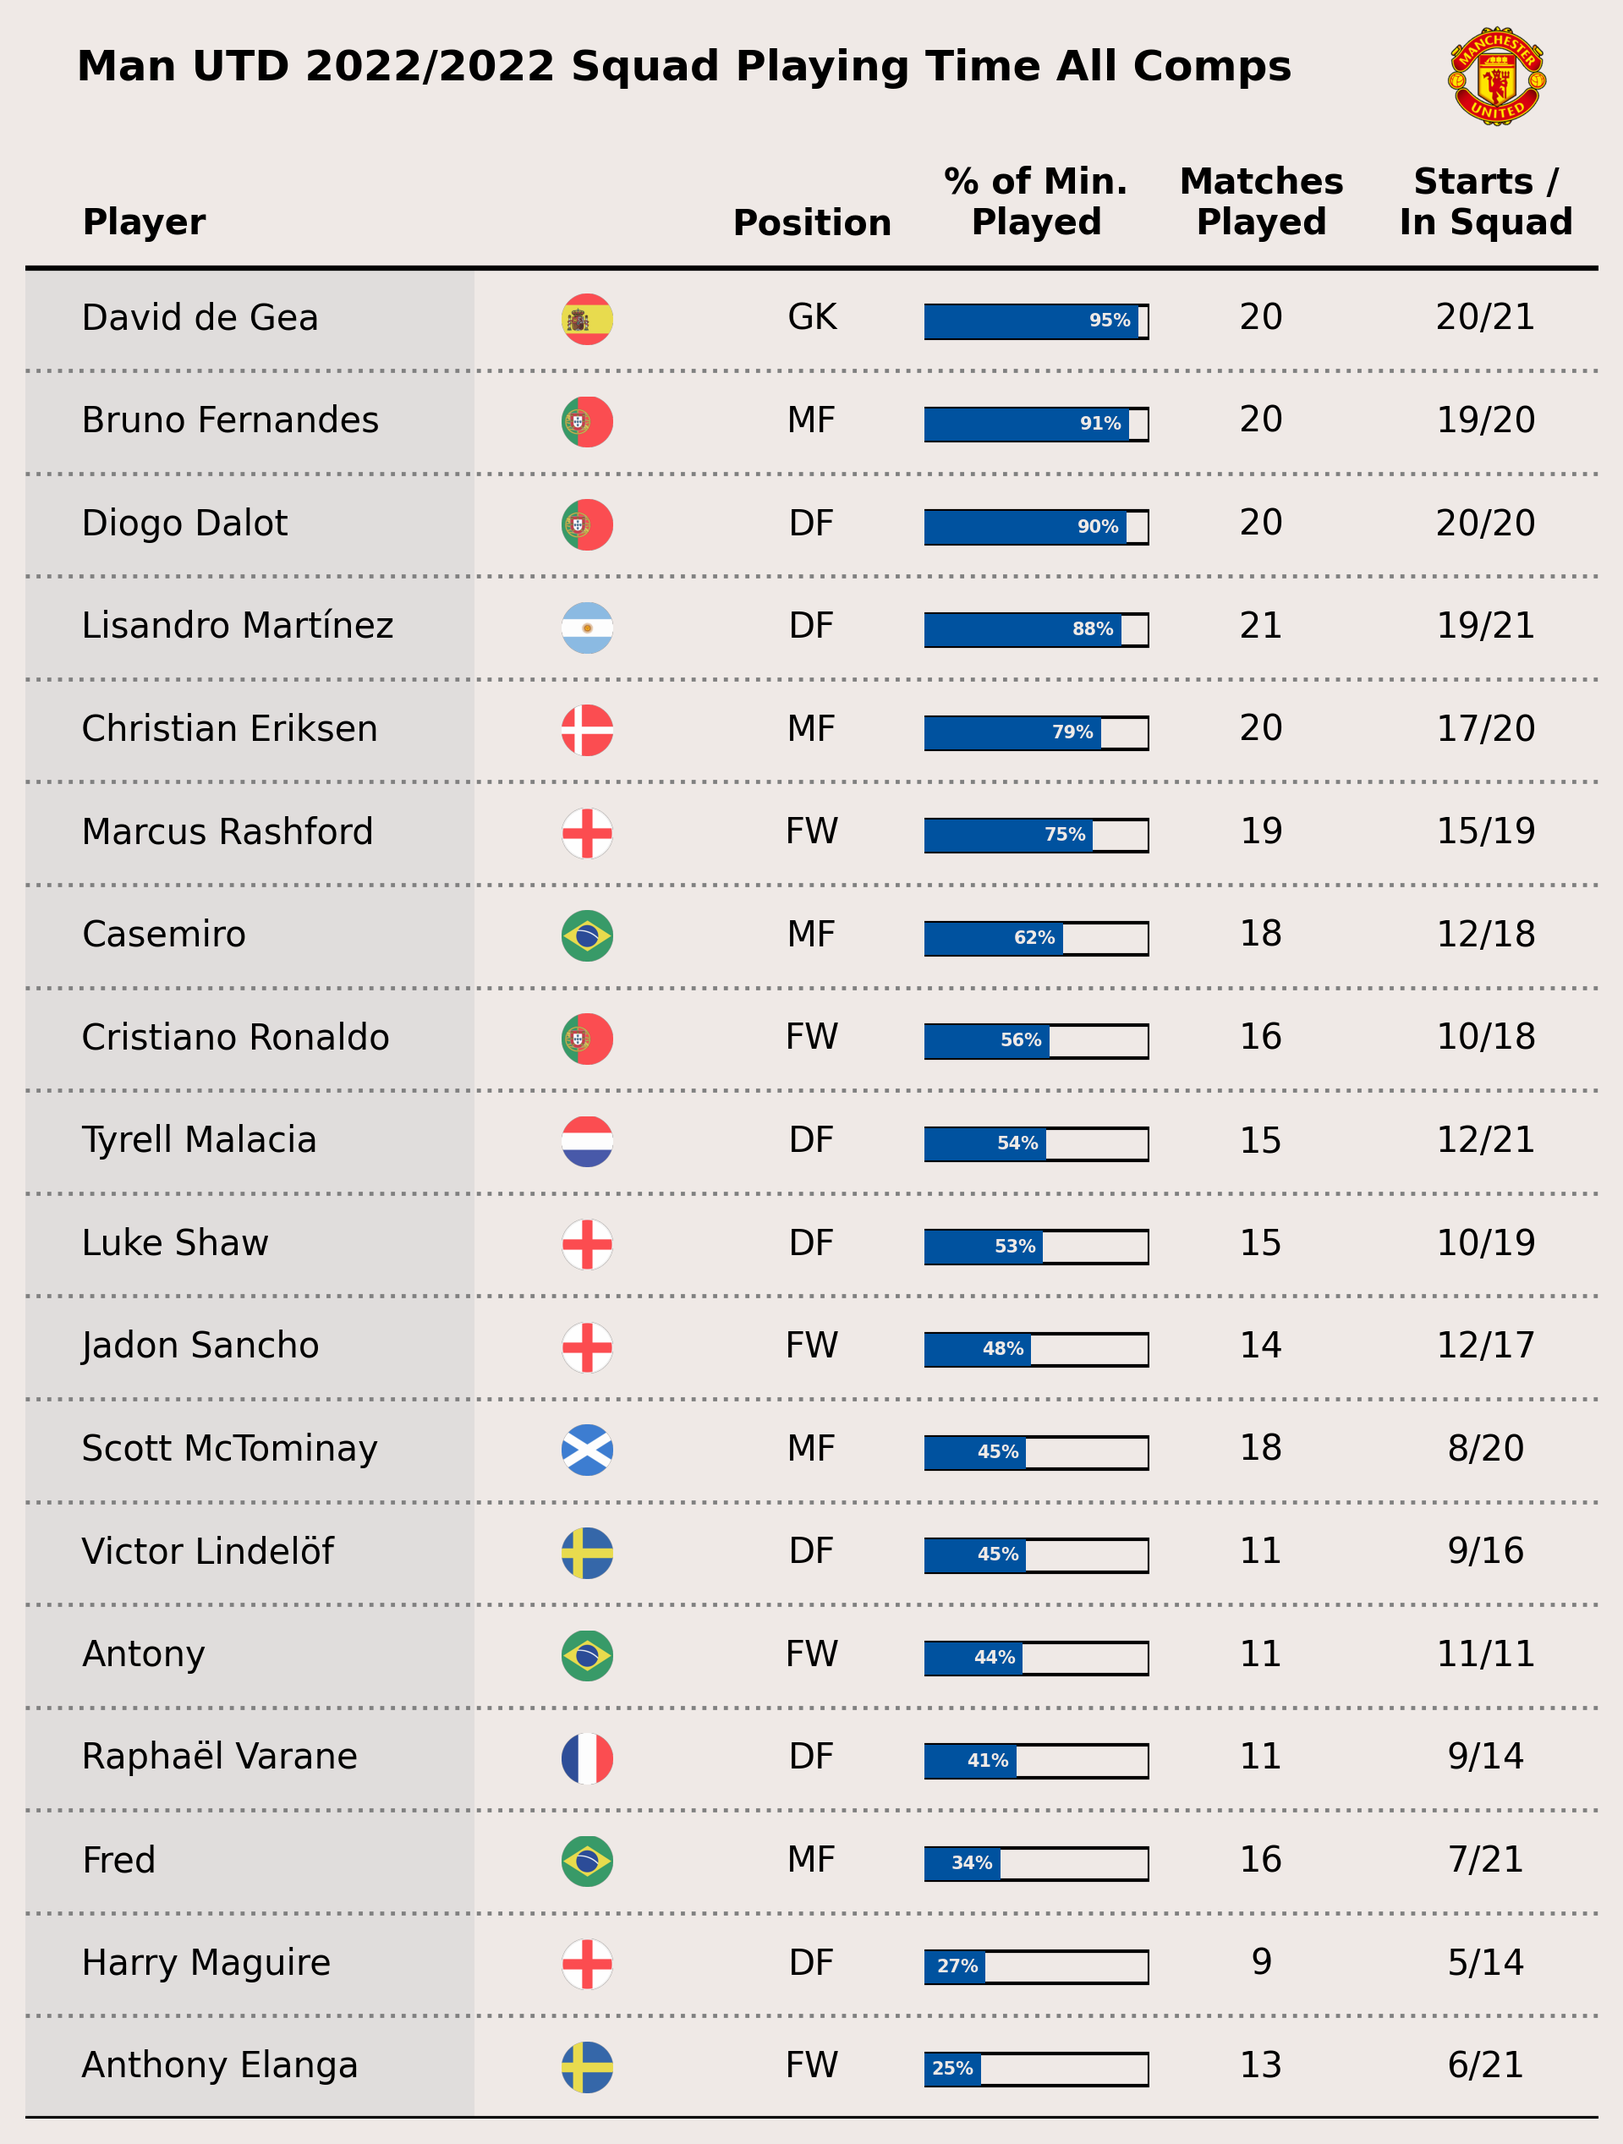
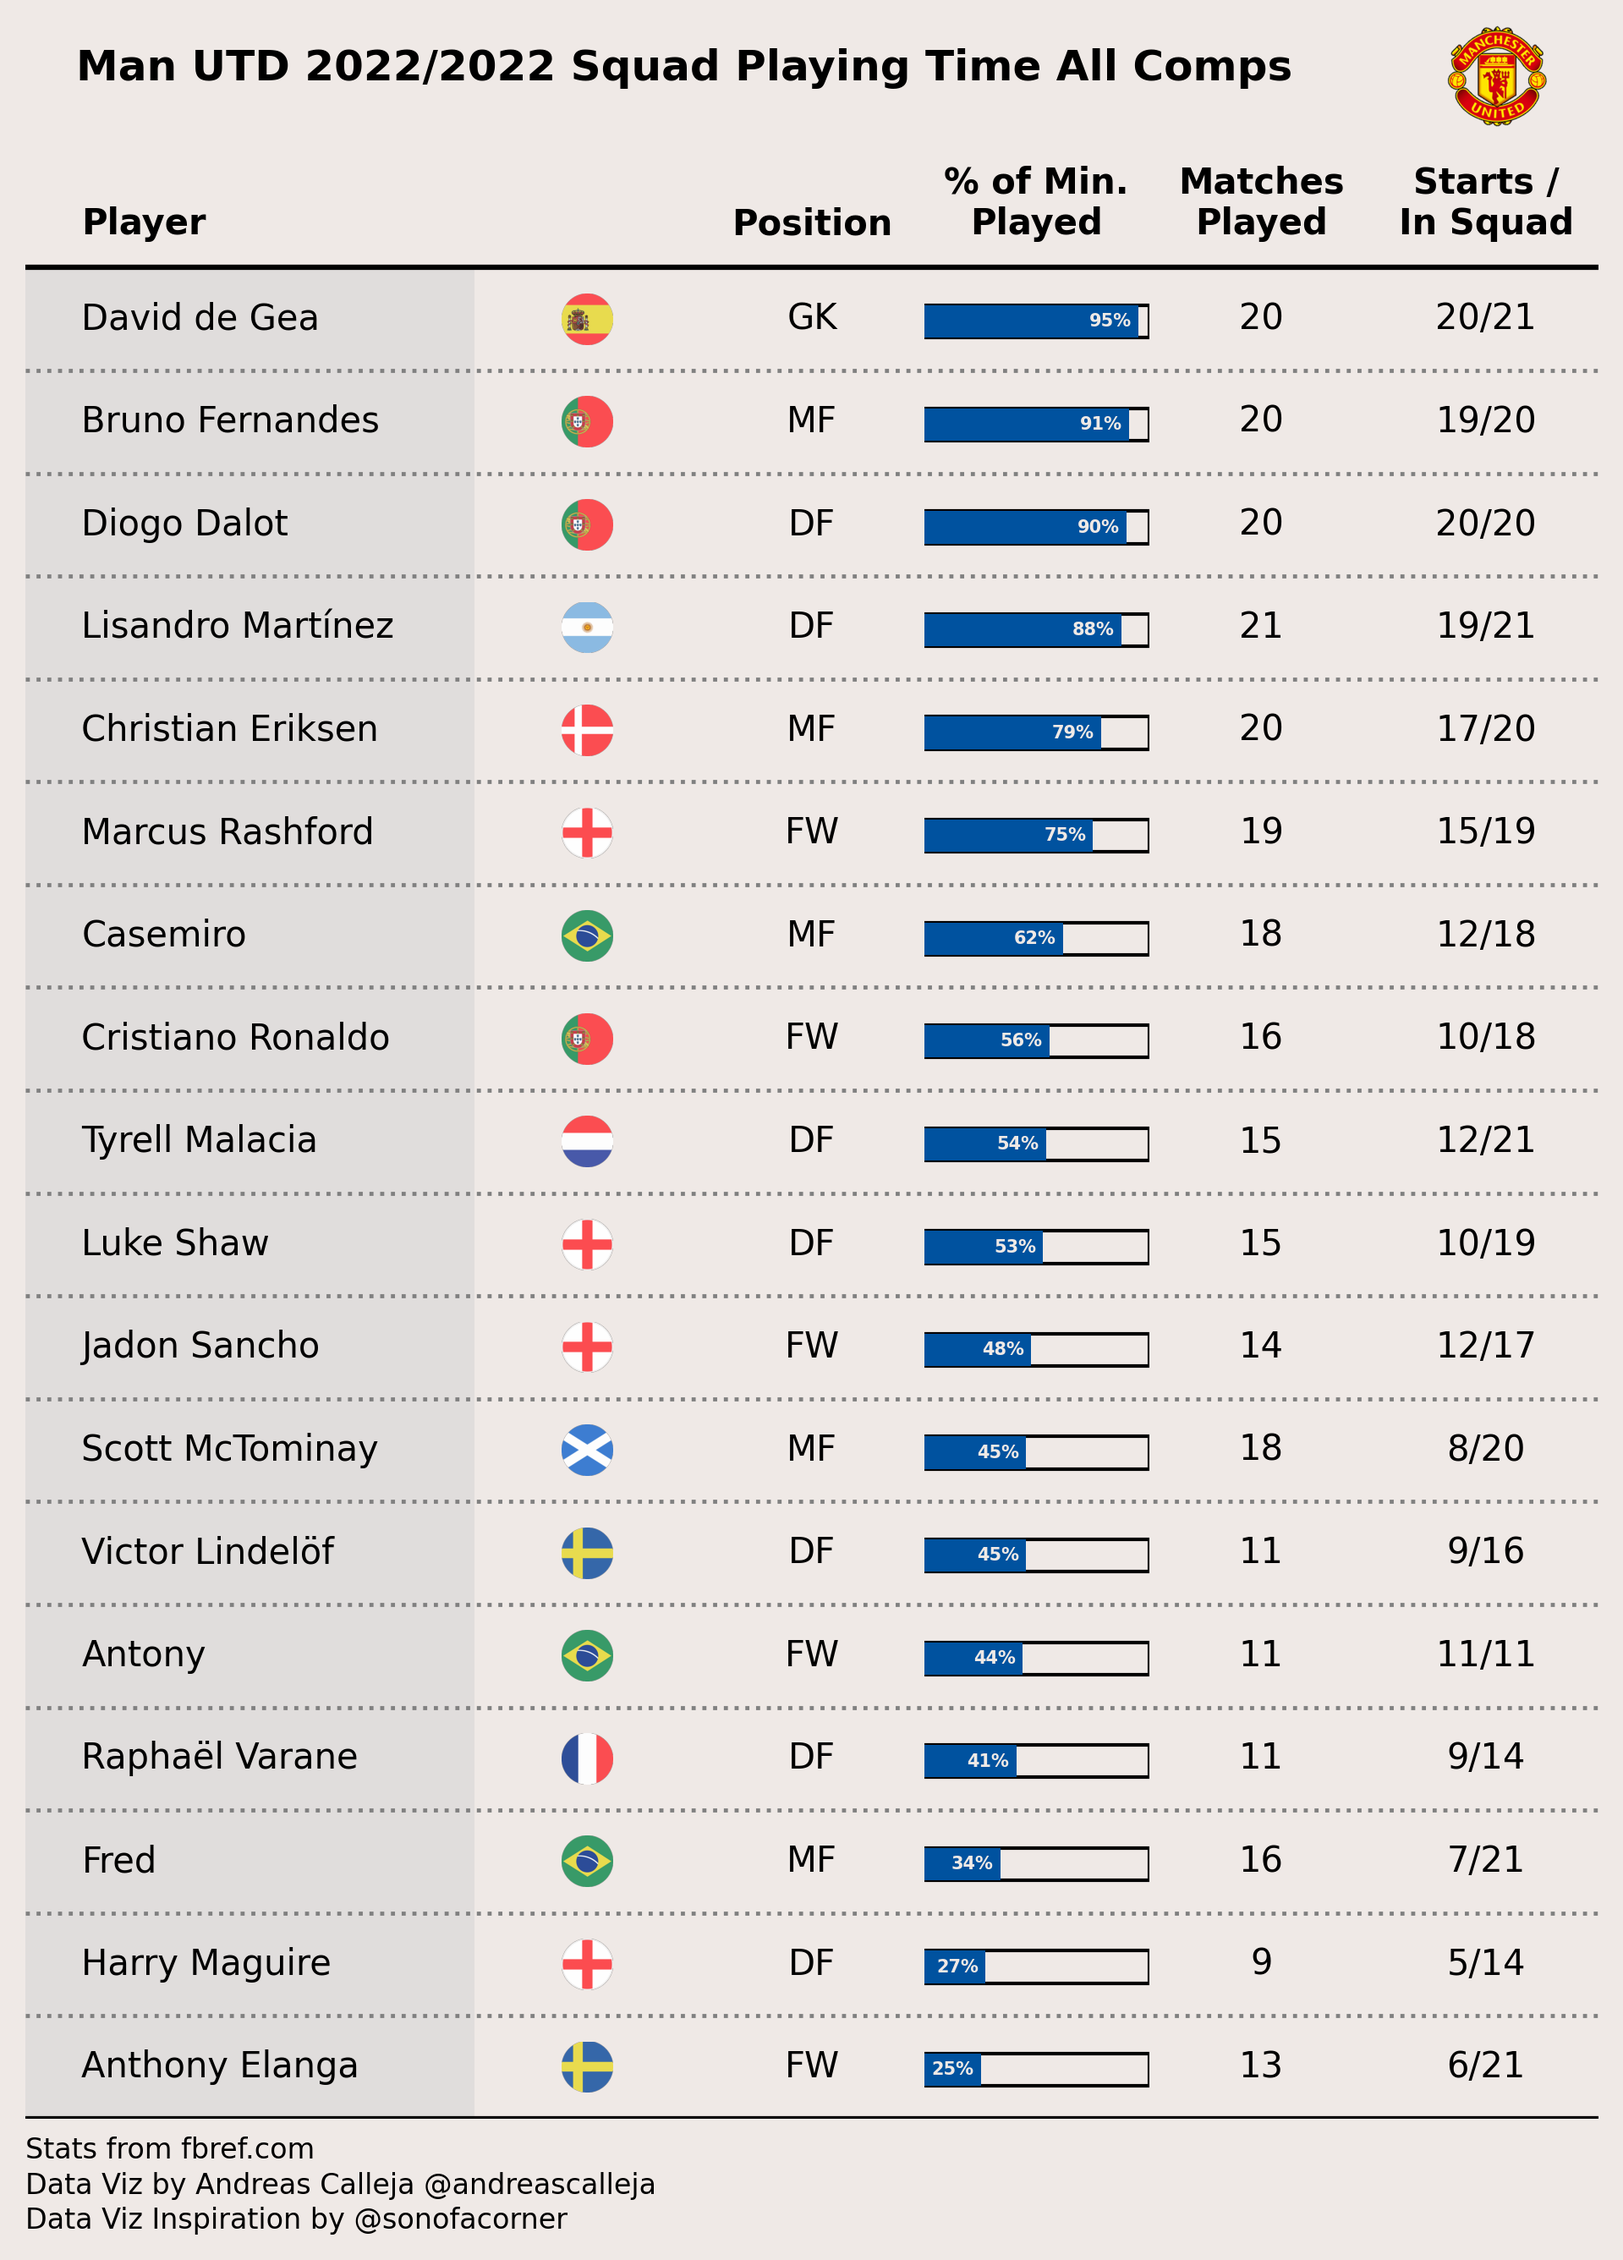
Added annotations

diff --git a/main.py b/main.py
@@ -3,6 +3,7 @@ import matplotlib.pyplot as plt
 from PIL import Image
 import urllib.request
 
+
 def ax_logo(team_id, ax):
     fotmob_url = 'https://images.fotmob.com/image_resources/logo/teamlogo/'
     club_icon = Image.open(urllib.request.urlopen(f'{fotmob_url}{team_id}.png'))
@@ -156,6 +157,13 @@ def plot_data(df_final):
         va='bottom',
         weight='bold',
         size=12)
+
+    ax.annotate('Stats from fbref.com', (0,0), (0,-5), fontsize=8, 
+              xycoords='axes fraction', textcoords='offset points', va='top')
+    ax.annotate('Data Viz by Andreas Calleja @andreascalleja', (0,0), (0,-15), fontsize=8, 
+            xycoords='axes fraction', textcoords='offset points', va='top')
+    ax.annotate('Data Viz Inspiration by @sonofacorner', (0,0), (0,-25), fontsize=8, 
+            xycoords='axes fraction', textcoords='offset points', va='top')
 
     save_figure('figures/final_table.png', 300, True, '#EFE9E6', 'tight')
     save_figure('figures/final_table_bkg.png', 300, False, '#EFE9E6', 'tight')
